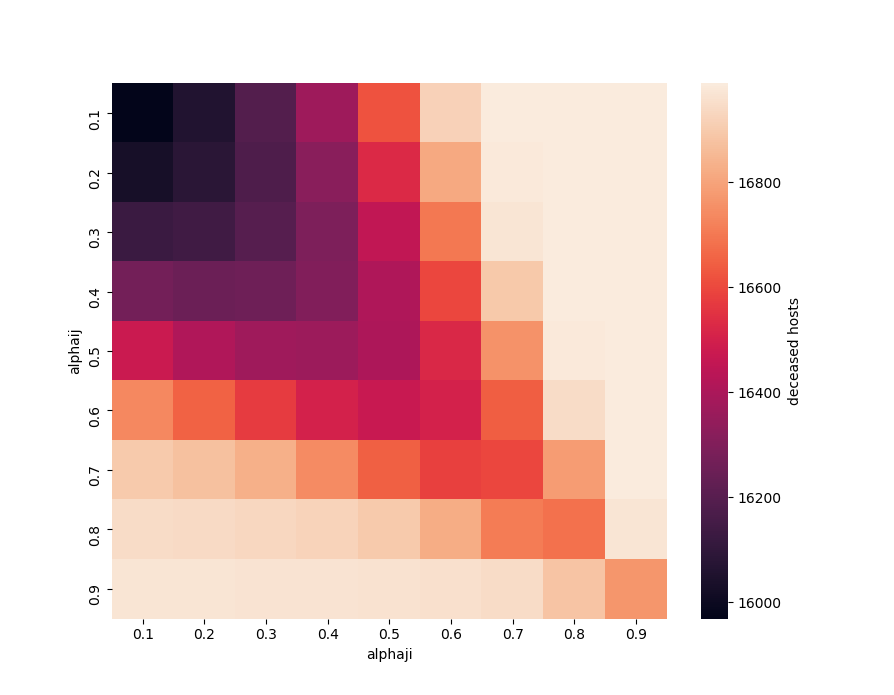
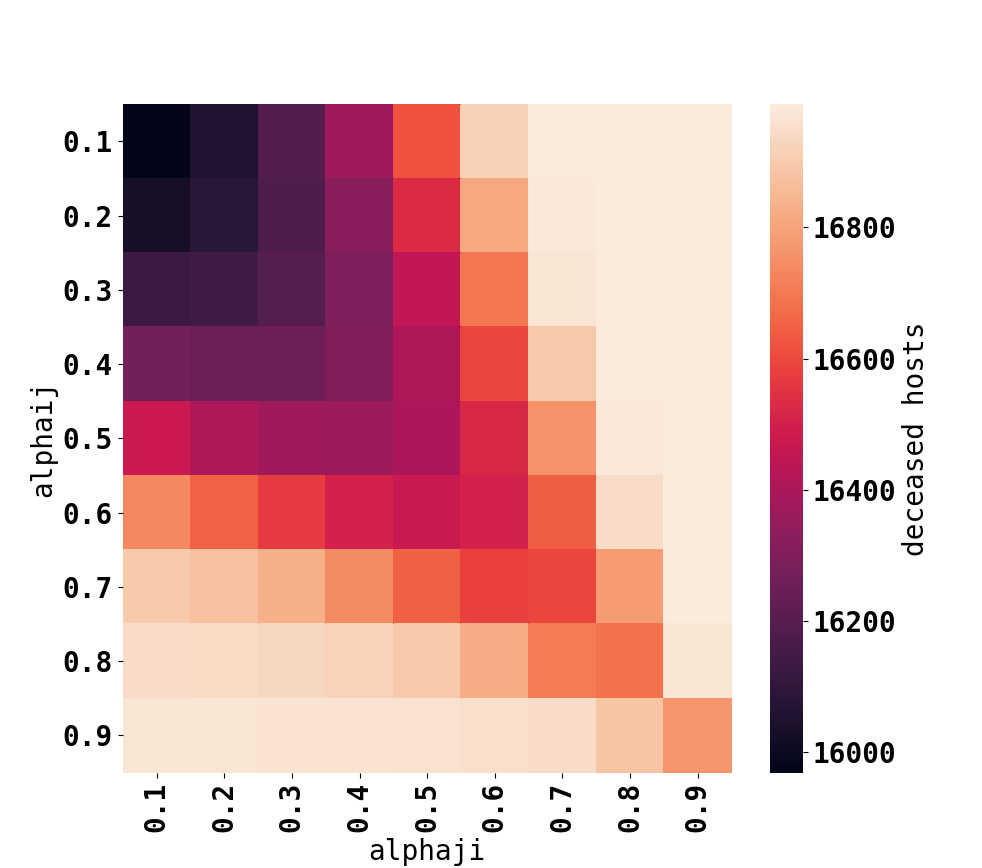
Added dead through infection to heatmaps

diff --git a/plot_alphas.py b/plot_alphas.py
@@ -24,15 +24,15 @@ import withinHost_model as inHost
 import host_model as host
 
 ######################### generate alpha values ############################
-alpha_ij = np.arange(0.1,1.0,0.05)
-alpha_ji = np.arange(0.1,1.0,0.05)
+alpha_ij = np.arange(0.1,1.0,0.1)
+alpha_ji = np.arange(0.1,1.0,0.1)
 
 s = []
 i_1 = []
 i_2 = []
 i_ij = []
-dead = []
-host_total = []
+dead_inf = []
+dead_total = []
 a_ij = []
 a_ji = []
 
@@ -57,27 +57,27 @@ for a_i in alpha_ij:
 		n2 = inHost.K2 
 		#calculate the number of hosts with a double infection
 		host_out = odeint(host.eq_sys, host.y0, host.time, args =(inHost.c_delta1, inHost.c_delta2, inHost.c_beta, inHost.h, n1, n2, n1_12, n2_12, host.mu, host.labda, host.l))
-		S, I_1, I_2, I_12, dead_host = host_out.T
+		S, I_1, I_2, I_12, dead_i, dead_host = host_out.T
 		S = S[-1]
 		I_1 = I_1[-1]
 		I_2 = I_2[-1]
 		I_12 = I_12[-1]
+		dead_i = dead_i[-1]
 		dead_host = dead_host[-1]
 		s.append(S)
 		i_1.append(I_1)
 		i_2.append(I_2)
 		i_ij.append(I_12)
-		dead.append(dead_host)
-		host_total.append(S+I_1+I_2+I_12)
+		dead_inf.append(dead_i)
+		dead_total.append(dead_host)
 
+print(dead_inf)
 
 S_alpha_df = pd.DataFrame(dict(alphaij = a_ij, alphaji = a_ji, S = s))
 S_to_alphas = S_alpha_df.pivot("alphaij", "alphaji", "S")
 
 I1_alpha_df = pd.DataFrame(dict(alphaij = a_ij, alphaji = a_ji, I1 = i_1))
 I1_to_alphas = I1_alpha_df.pivot("alphaij", "alphaji", "I1")
-# print(I1_alpha_df)
-# print(I1_to_alphas)
 
 I2_alpha_df = pd.DataFrame(dict(alphaij = a_ij, alphaji = a_ji, I2 = i_2))
 I2_to_alphas = I2_alpha_df.pivot("alphaij", "alphaji", "I2")
@@ -85,13 +85,14 @@ I2_to_alphas = I2_alpha_df.pivot("alphaij", "alphaji", "I2")
 I12_alpha_df = pd.DataFrame(dict(alphaij = a_ij, alphaji = a_ji, I12 = i_ij))
 I12_to_alphas = I12_alpha_df.pivot("alphaij", "alphaji", "I12")
 
-D_alpha_df = pd.DataFrame(dict(alphaij = a_ij, alphaji = a_ji, deceased = dead))
+D_alpha_df = pd.DataFrame(dict(alphaij = a_ij, alphaji = a_ji, deceased = dead_total))
 D_to_alphas = D_alpha_df.pivot("alphaij", "alphaji", "deceased")
 
-dead_fraction = [di/hi for di,hi in zip(dead,host_total)]
+dead_fraction = [di/dt for di,dt in zip(dead_inf,dead_total)]
 
 Df_alpha_df = pd.DataFrame(dict(alphaij = a_ij, alphaji = a_ji, deceased_fraction = dead_fraction))
 Df_to_alphas = Df_alpha_df.pivot("alphaij", "alphaji", "deceased_fraction")
+print(Df_alpha_df)
 
 ########################	PLOT 	###########################################
 
@@ -130,5 +131,5 @@ plt.show()
 
 ############## heatmap
 ax = sns.heatmap(Df_to_alphas, xticklabels=Df_to_alphas.columns.values.round(2),
-                 yticklabels=Df_to_alphas.index.values.round(2), cbar_kws={'label': 'deceased hosts as fraction'})
+                 yticklabels=Df_to_alphas.index.values.round(2), cbar_kws={'label': 'deceased hosts through infection'})
 plt.show()

diff --git a/cdelta_plot.py b/cdelta_plot.py
@@ -31,7 +31,8 @@ s = []
 i_1 = []
 i_2 = []
 i_ij = []
-dead = []
+dead_inf = []
+dead_total = []
 c_d1 = []
 c_d2 = []
 
@@ -49,17 +50,19 @@ for c_1 in c_delta1:
 		#calculate the number of hosts with a double infection
 		host_out = odeint(host.eq_sys, host.y0, host.time, args =(c_1, c_2, 
 			inHost.c_beta, inHost.h, n1, n2, n1_12, n2_12, host.mu, host.labda, host.l))
-		S, I_1, I_2, I_12, dead_host = host_out.T
+		S, I_1, I_2, I_12, dead_i, dead_host = host_out.T
 		S = S[-1]
 		I_1 = I_1[-1]
 		I_2 = I_2[-1]
 		I_12 = I_12[-1]
+		dead_i = dead_i[-1]
 		dead_host = dead_host[-1]
 		s.append(S)
 		i_1.append(I_1)
 		i_2.append(I_2)
 		i_ij.append(I_12)
-		dead.append(dead_host)
+		dead_inf.append(dead_i)
+		dead_total.append(dead_host)
 
 
 S_cdelta_df = pd.DataFrame(dict(c_delta1 = c_d1, c_delta2 = c_d2, S = s))
@@ -74,8 +77,13 @@ I2_to_cdeltas = I2_cdelta_df.pivot("c_delta1", "c_delta2", "I2")
 I12_cdelta_df = pd.DataFrame(dict(c_delta1 = c_d1, c_delta2 = c_d2,  I12 = i_ij))
 I12_to_cdeltas = I12_cdelta_df.pivot("c_delta1", "c_delta2", "I12")
 
-D_cdelta_df = pd.DataFrame(dict(c_delta1 = c_d1, c_delta2 = c_d2,  deceased = dead))
+D_cdelta_df = pd.DataFrame(dict(c_delta1 = c_d1, c_delta2 = c_d2,  deceased = dead_total))
 D_to_cdeltas = D_cdelta_df.pivot("c_delta1", "c_delta2", "deceased")
+
+dead_fraction = [di/dt for di,dt in zip(dead_inf,dead_total)]
+
+Df_cdelta_df = pd.DataFrame(dict(c_delta1 = c_d1, c_delta2 = c_d2,  deceased_inf = dead_fraction))
+Df_to_cdeltas = Df_cdelta_df.pivot("c_delta1", "c_delta2", "deceased_inf")
 
 ########################	PLOT 	###########################################
 
@@ -106,6 +114,10 @@ plt.show()
 
 ax = sns.heatmap(D_to_cdeltas, xticklabels=D_to_cdeltas.columns.values.round(4),
                  yticklabels=D_to_cdeltas.index.values.round(4), cbar_kws={'label': 'deceased hosts'})
+plt.show()
+
+ax = sns.heatmap(Df_to_cdeltas, xticklabels=Df_to_cdeltas.columns.values.round(4),
+                 yticklabels=Df_to_cdeltas.index.values.round(4), cbar_kws={'label': 'deceased through infection'})
 plt.show()
 
 

diff --git a/plot_K.py b/plot_K.py
@@ -30,7 +30,8 @@ K_2 = np.arange(3,15,.5)
 i_1 = []
 i_2 = []
 i_12 = []
-dead = []
+dead_inf = []
+dead_total = []
 K_1_ij = []
 K_2_ij = []
 
@@ -49,15 +50,17 @@ for k1 in K_1:
 		#calculate the number of hosts with a double infection
 		host_out = odeint(host.eq_sys, host.y0, host.time, args =(inHost.c_delta1, inHost.c_delta2, 
 			inHost.c_beta, inHost.h, n1, n2, n1_12, n2_12, host.mu, host.labda, host.l))
-		S, I_1, I_2, I_12, dead_host = host_out.T
+		S, I_1, I_2, I_12, dead_i, dead_host = host_out.T
 		I_1 = I_1[-1]
 		I_2 = I_2[-1]
 		I_12 = I_12[-1]
+		dead_i = dead_i[-1]
 		dead_host = dead_host[-1]
 		i_1.append(I_1)
 		i_2.append(I_2)
 		i_12.append(I_12)
-		dead.append(dead_host)
+		dead_inf.append(dead_i)
+		dead_total.append(dead_host)
 
 
 I1_K_df = pd.DataFrame(dict(K1 = K_1_ij, K2 = K_2_ij, I12 = i_1))
@@ -69,8 +72,13 @@ I2_to_Ks = I2_K_df.pivot("K1", "K2", "I12")
 I12_K_df = pd.DataFrame(dict(K1 = K_1_ij, K2 = K_2_ij, I12 = i_12))
 I12_to_Ks = I12_K_df.pivot("K1", "K2", "I12")
 
-D_K_df = pd.DataFrame(dict(K1 = K_1_ij, K2 = K_2_ij, deceased = dead))
+D_K_df = pd.DataFrame(dict(K1 = K_1_ij, K2 = K_2_ij, deceased = dead_total))
 D_to_Ks = D_K_df.pivot("K1", "K2", "deceased")
+
+dead_fraction = [di/dt for di,dt in zip(dead_inf,dead_total)]
+
+Df_K_df = pd.DataFrame(dict(K1 = K_1_ij, K2 = K_2_ij, deceased_inf = dead_fraction))
+Df_to_Ks = Df_K_df.pivot("K1", "K2", "deceased_inf")
 
 ########################	PLOT 	###########################################
 
@@ -94,5 +102,9 @@ plt.show()
 
 ax = sns.heatmap(data = D_to_Ks, cbar_kws={'label': 'deceased hosts'})
 plt.show()
+
+ax = sns.heatmap(data = Df_to_Ks, cbar_kws={'label': 'deceased through infection'})
+plt.show()
+
 
 

diff --git a/host_model.py b/host_model.py
@@ -47,6 +47,7 @@ I_1_0 = (-2*labda*(delta_1+mu) - beta_1*l*(delta_1-labda+mu)+
 #Individuals infected with strain 1 (the resident strain)
 I_2_0 = 1#Individuals infected with strain 2 (the rare mutant)
 I_12_0 = 0 #Individuals infected with both
+DI_0 = 0 #deceased hosts through infection
 D_0 = 0 #deceased hosts total
 
 #time
@@ -70,7 +71,8 @@ def eq_sys(y, t, c_delta1, c_delta2, c_beta, h, n1, n2, n1_12, n2_12, mu, labda,
 	I_1 = y[1]
 	I_2 = y[2]
 	I_12 = y[3]
-	D = y[4]
+	DI = y[4]
+	D = y[5]
 
 	dSdt = labda*(S+I_1+I_2+I_12) *(1-(S+I_1+I_2+I_12)/l)  - mu*S -beta_1*S*I_1 - beta_2*S*I_2 - beta_1_12*S*I_12 - beta_2_12*S*I_12
 
@@ -80,15 +82,17 @@ def eq_sys(y, t, c_delta1, c_delta2, c_beta, h, n1, n2, n1_12, n2_12, mu, labda,
 
 	dI12dt = beta_1*I_1*I_2 + beta_2*I_1*I_2 + beta_2_12*I_1*I_12 + beta_1_12*I_2*I_12 - (mu+delta_12)*I_12
 
+	dDIdt = delta_1*I_1 + delta_2*I_2 + delta_12*I_12
+
 	dDdt = mu*S + (mu+delta_1)*I_1 + (mu+delta_2)*I_2 + (mu+delta_12)*I_12
 
-	return dSdt, dI1dt, dI2dt, dI12dt, dDdt
+	return dSdt, dI1dt, dI2dt, dI12dt, dDIdt, dDdt
 
-y0 = (S_0, I_1_0, I_2_0, I_12_0, D_0)
+y0 = (S_0, I_1_0, I_2_0, I_12_0, DI_0, D_0)
 
 out = odeint(eq_sys, y0, time, args =(inHost.c_delta1, inHost.c_delta2, inHost.c_beta, 
 	inHost.h, n1, n2, n1_12, n2_12, mu, labda, l))
-S, I_1, I_2, I_12, D = out.T
+S, I_1, I_2, I_12, DI, D = out.T
 
 ###########################		Plot system		################################ 
 #only plot if this is the main script
@@ -105,6 +109,7 @@ if __name__ == "__main__":
 	plt.show()
 
 	plt.plot(time, D, label = "Deceased hosts")
+	plt.plot(time, DI, label = "Deceased hosts though infection")
 	plt.legend(loc="best")
 	plt.grid()
 	plt.show()
